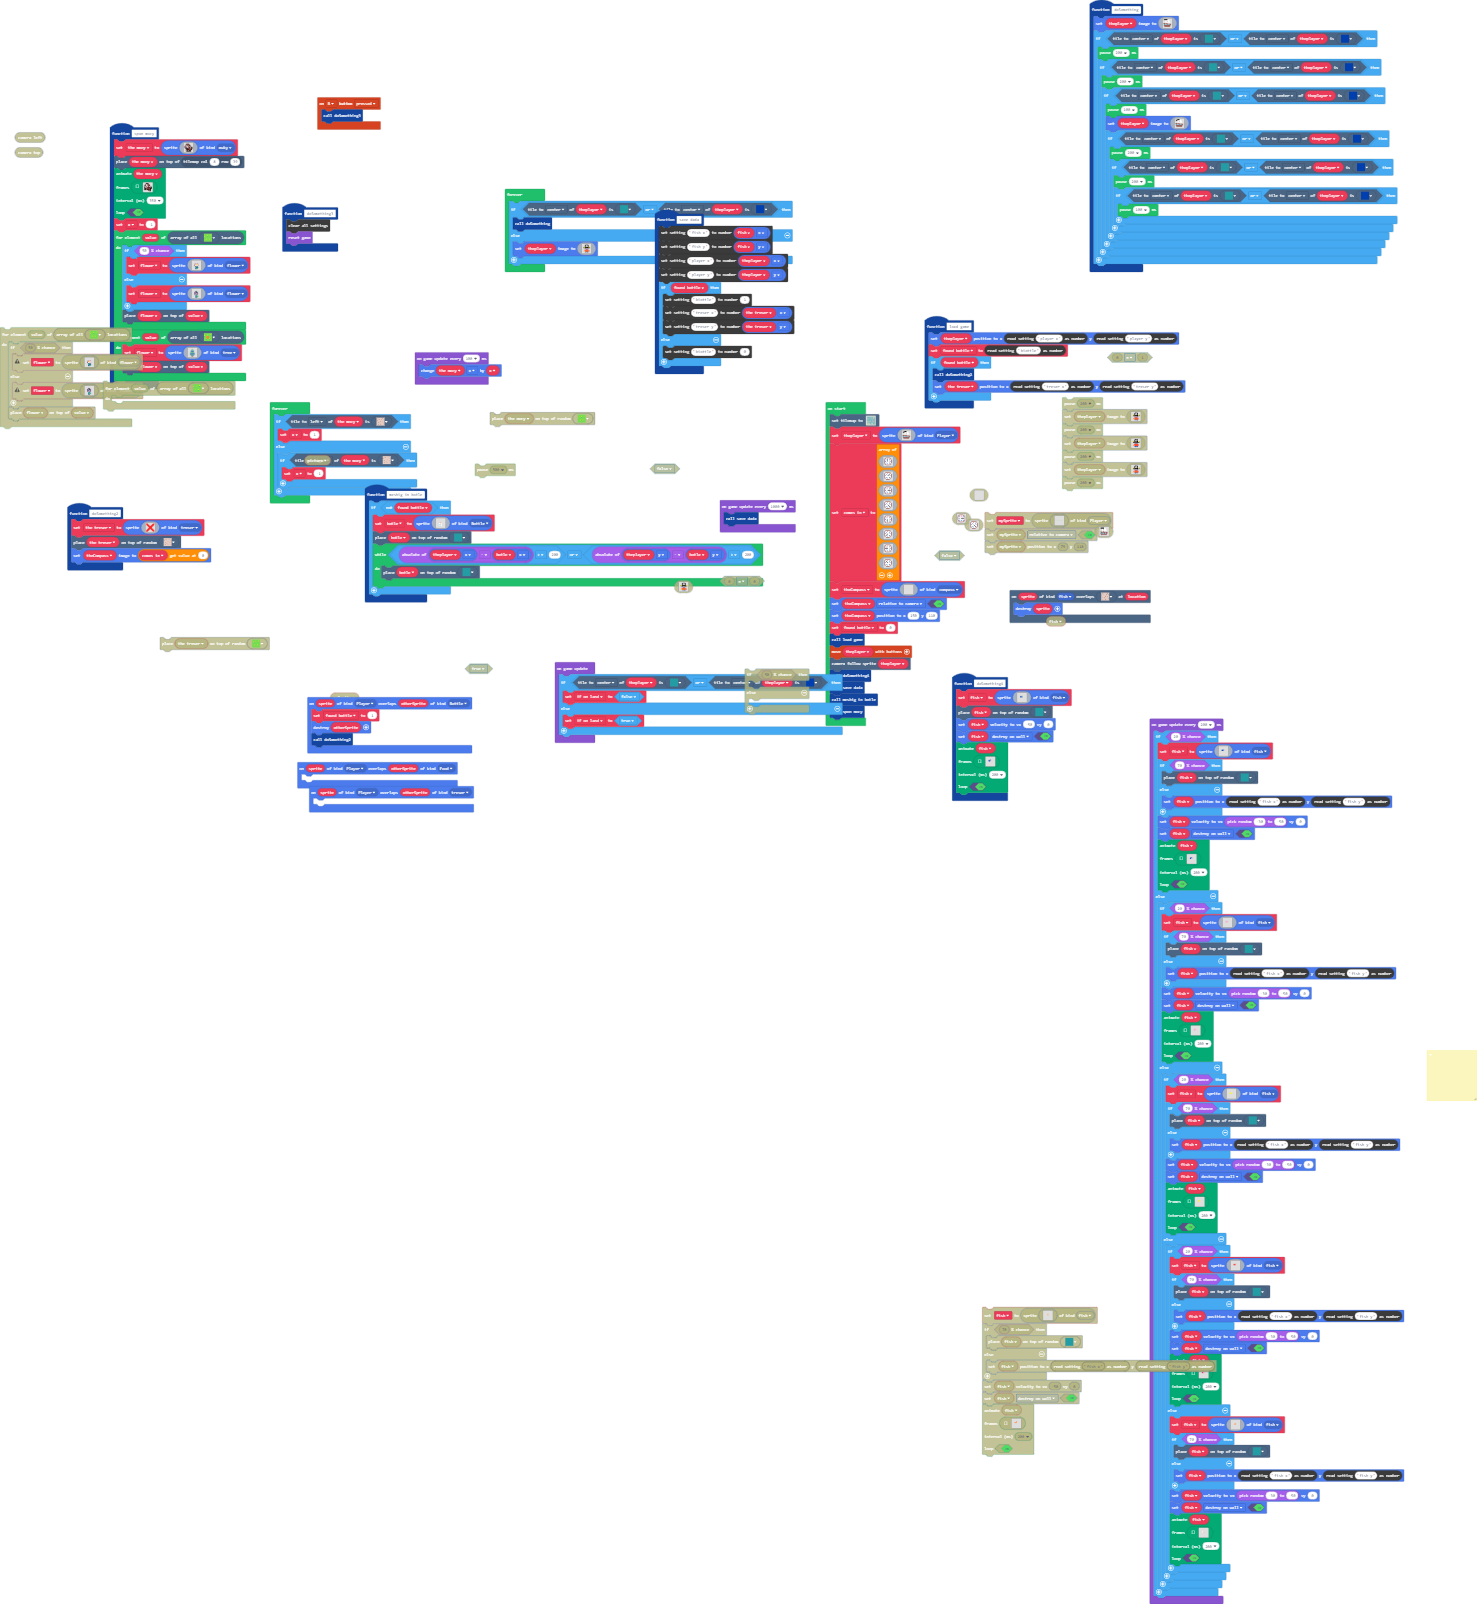
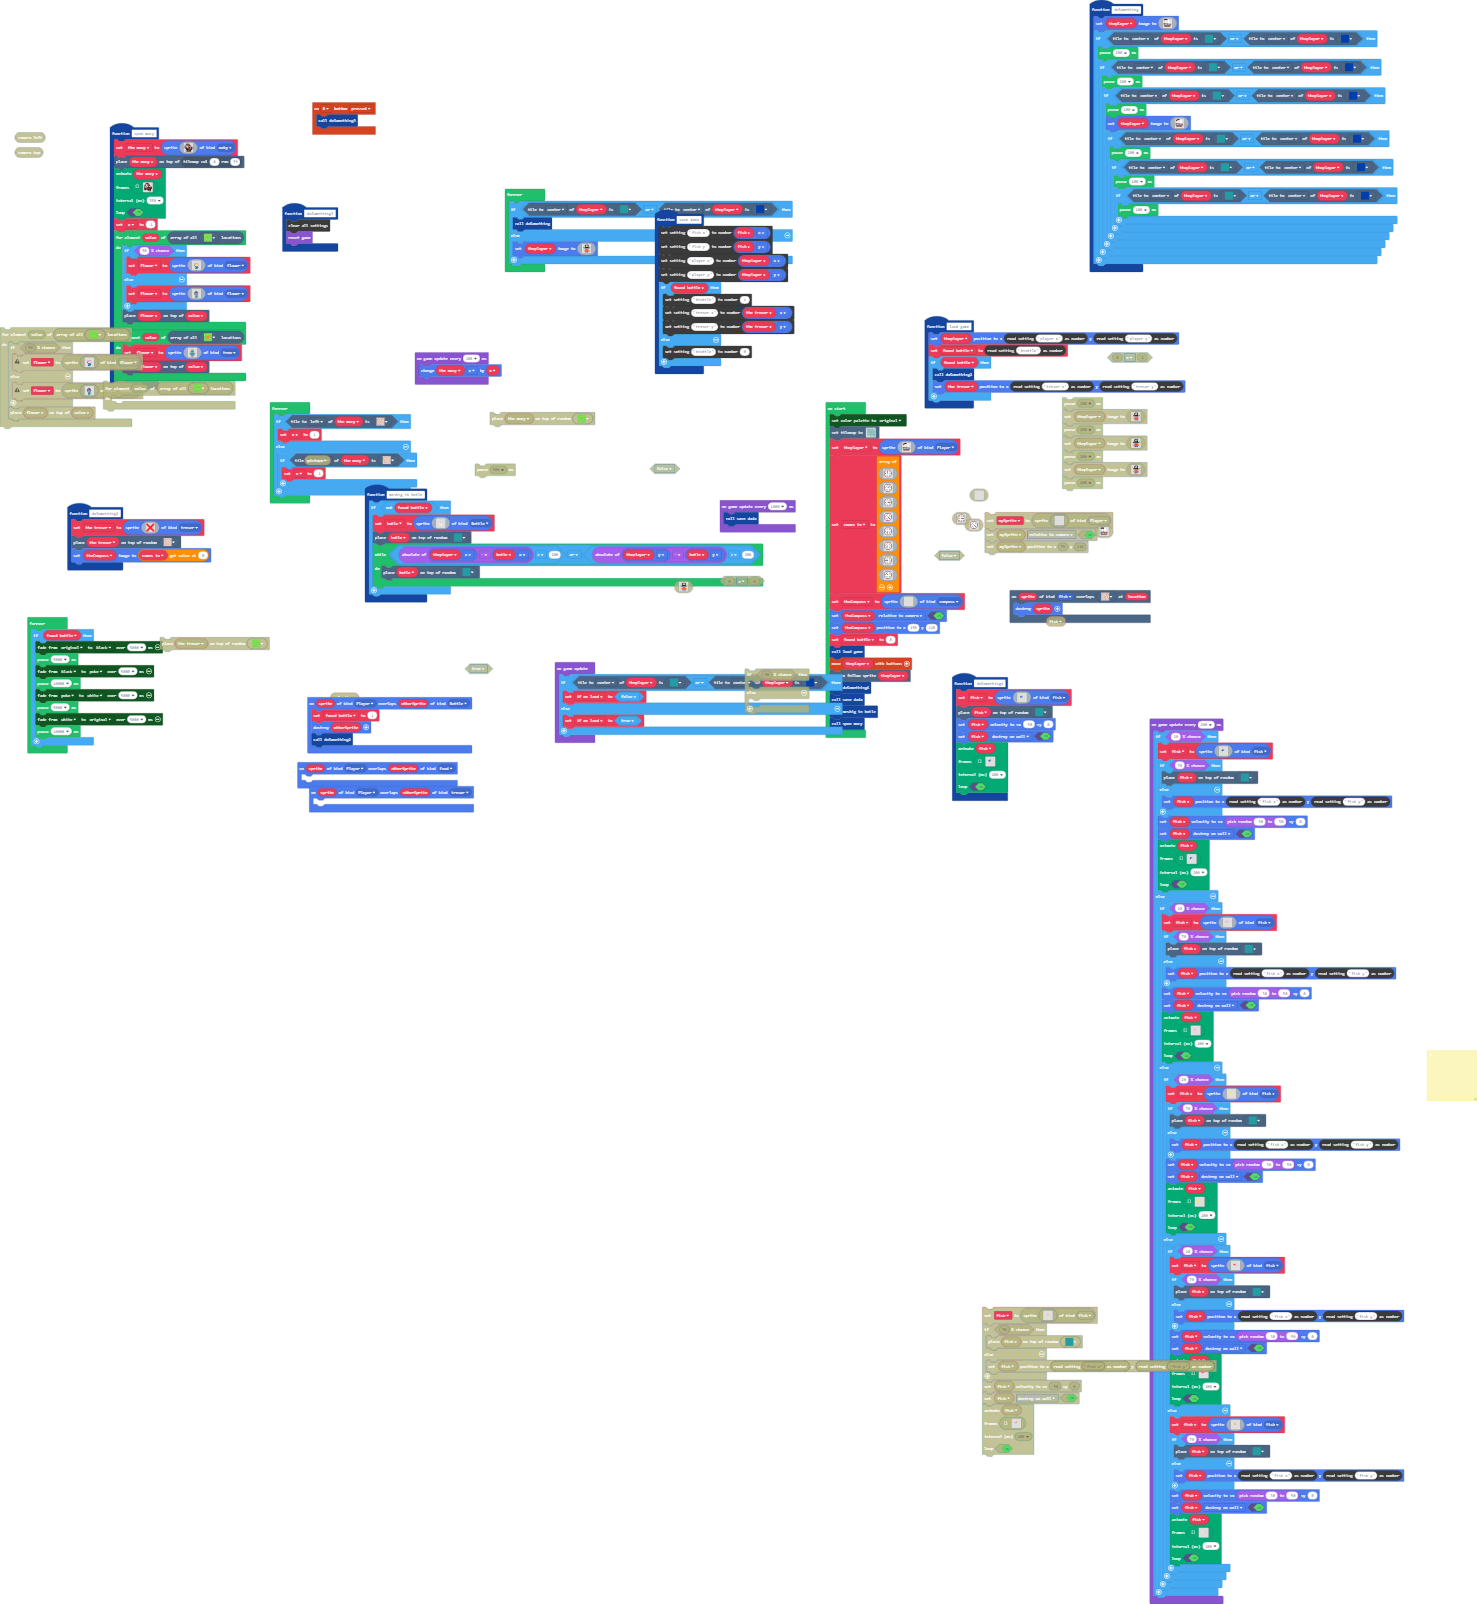
Update pxt.json, main.blocks, main.ts

Changed region(s): [[0.5606, 0.2494, 0.654, 0.4676], [0.0, 0.3741, 0.1246, 0.4676], [0.1869, 0.0623, 0.2803, 0.0935]]

diff --git a/main.ts b/main.ts
@@ -582,6 +582,9 @@ let found_bottle = 0
 let theCompass: Sprite = null
 let comes_in: Image[] = []
 let theplayer: Sprite = null
+color.setPalette(
+color.originalPalette
+)
 tiles.setTilemap(tiles.createTilemap(
[1 lines of base64/hex data omitted]
             img`
@@ -1386,6 +1389,18 @@ forever(function () {
         if (the_mocy.tileKindAt(TileDirection.Right, myTiles.tile3)) {
             x = -1
         }
+    }
+})
+forever(function () {
+    if (found_bottle) {
+        color.startFade(color.originalPalette, color.Black, 5000)
+        pause(5000)
+        color.startFade(color.Black, color.Poke, 5000)
+        pause(10000)
+        color.startFade(color.Poke, color.White, 5000)
+        pause(5000)
+        color.startFade(color.White, color.originalPalette, 5000)
+        pause(10000)
     }
 })
 game.onUpdateInterval(1000, function () {
